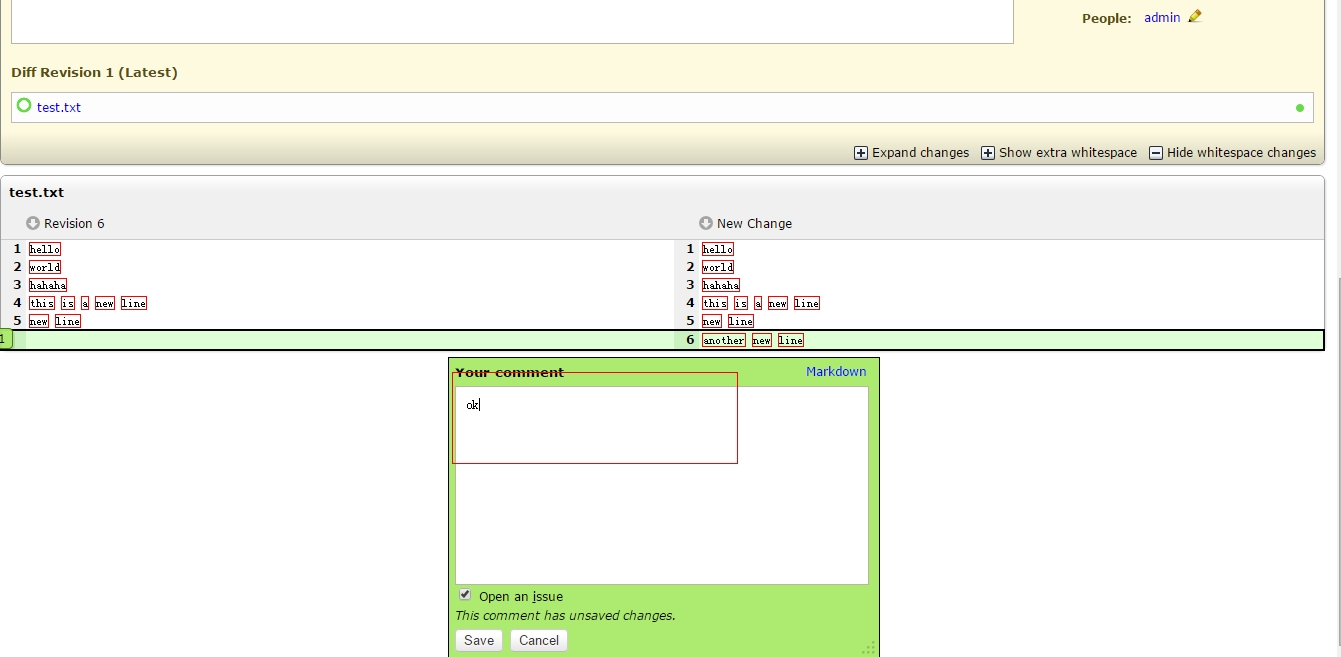
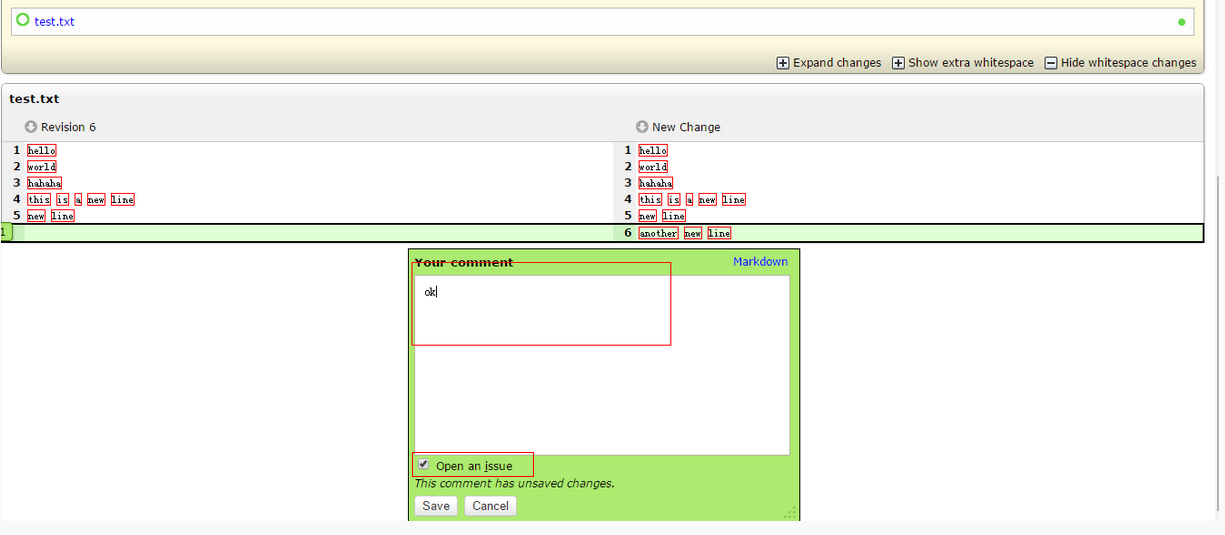
add new pic

Changed region(s): [[0.0, 0.0, 1.0, 1.0]]

diff --git a/_posts/2014-11-24-ReviewBoard-Use.md b/_posts/2014-11-24-ReviewBoard-Use.md
@@ -11,7 +11,7 @@ tags: [reviewboard, python, apache]
 ## 生成patch文件 ##
 本地代码有变更时，可以利用客户端软件，如tortoise SVN生成patch文件，在源码根目录窗口处，点击鼠标右键->TortoiseSVN->Create Patch，见下图：
 
-![生成patch文件] (/assets/images/2014/reviewboard-use01.png)
+	![生成patch文件] (/assets/images/2014/reviewboard-use01.png)
 
 注意，patch文件可以放置到任意路径，不需要提交到repository
 
@@ -19,36 +19,38 @@ tags: [reviewboard, python, apache]
 
 选择配置库，填入创建patch时的相对路径，下图中填写/，也就意味着是在/目录下创建的patch，选择上一步生成的patch文件
 
-![生成review] (/assets/images/2014/reviewboard-use02.png)
+	![生成review] (/assets/images/2014/reviewboard-use02.png)
 
 选择patch文件结束后，会出现如下界面，填写评审相关内容，重点是选择评审人，支持选择评审组，以及直接指定评审人，另外可以通过 view diff查看版本变动差异信息
 
-![生成review] (/assets/images/2014/reviewboard-use03.png)
+	![生成review] (/assets/images/2014/reviewboard-use03.png)
 
 ## 进行评审 ##
 
 使用评审人账号登录后，在dashboard下可以发现有新提交上来的review quest
 
-![查看review quest] (/assets/images/2014/reviewboard-use04.png)
+	![查看review quest] (/assets/images/2014/reviewboard-use04.png)
 
 点击review quest进入，可以通过view diff查看文件变动情况
 
-![查看diff] (/assets/images/2014/reviewboard-use05.png)
+	![查看diff] (/assets/images/2014/reviewboard-use05.png)
 
-然后针对变更处的代码写上自己的comment
+然后针对变更处的代码写上自己的comment，默认情况下，填写comment的时候会开启一个issue。如果觉得变更的代码没有问题，只想注释一下的话，去掉open an issue前面的小勾。
 
-![评审diff] (/assets/images/2014/reviewboard-use06.png)
+	![评审diff] (/assets/images/2014/reviewboard-use06.png)
+
+如果评审人觉得变更的代码没有问题，则直接点击上方的ship it即可。按照pre-commit设置，review quest需要收集ship it的个数，只有达到要求后才能commit。但由于现在svn端缺少这样强制机制，所以现在我们用的时候，暂时将ship it认为是通过的标志。
 
 ## 关闭评审并提交或重新评审 ##
 
-评审发起人重新登录系统，在outgoging reviews栏中看到评审过的工单
+评审发起人重新登录系统，在outgoging reviews栏中看到评审过的review quest
 
-![查看评审后的request] (/assets/images/2014/reviewboard-use07.png)
+	![查看评审后的request] (/assets/images/2014/reviewboard-use07.png)
 
 如果评审未发现问题，则SUBMITTED工单，评审完成
 
-![关闭request] (/assets/images/2014/reviewboard-use08.png)
+	![关闭request] (/assets/images/2014/reviewboard-use08.png)
 
 若有问题的化，则需要继续修改代码，重新产生diff信息，使用update diff功能更改版本差异变动信息，继续进行评审。直至关闭。
 
-![重开request] (/assets/images/2014/reviewboard-use09.png)
+	![重开request] (/assets/images/2014/reviewboard-use09.png)
